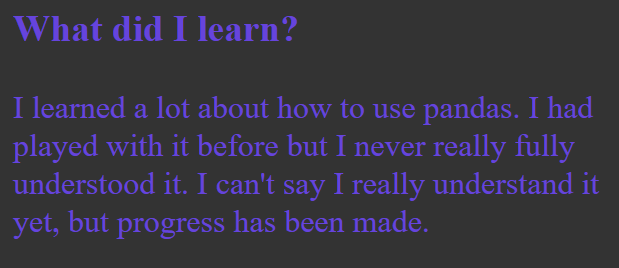
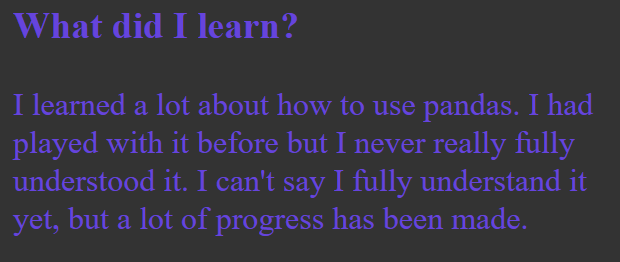
Modify .py file, add screenshots and stylesheet

diff --git a/templates/template.html b/templates/template.html
@@ -1,0 +1,15 @@
+<!DOCTYPE html>
+<html lang="en">
+<head>
+    <meta charset="UTF-8">
+    <title>My Book Results</title>
+    <link rel="stylesheet" href="../static/style.css">
+</head>
+<body>
+
+{% for table in tables %}
+            {{titles[loop.index]}}
+            {{ table|safe }}
+{% endfor %}
+</body>
+</html>

diff --git a/static/style.css b/static/style.css
@@ -1,0 +1,14 @@
+html {
+    background-color: #023047;
+    color: #fb8500;
+}
+
+table, tr, th, td {
+    border: 1px solid #219ebc;
+    border-collapse: collapse;
+}
+
+th, td {
+    text-align: center;
+    max-width: 400px;
+}

diff --git a/web_data_app.py b/web_data_app.py
@@ -81,7 +81,8 @@ def book_data():
         prices.append(float(book.find('p', class_="price_color").text[1:]))
 
     # Create a DataFrame using the two lists
-    book_data = pd.DataFrame(list(zip(titles, prices)), columns=['Titles','Prices'])    
+    book_data = pd.DataFrame(list(zip(titles, prices)), columns=['Titles','Prices'])
+    book_data['Sale Prices'] = round(book_data['Prices'] * 0.75, 2)
     print(book_data)        # Print to the terminal as confirmation - only we can see this
 
     # Format and print the DataFrame using the html template provided in the templates subdirectory
@@ -94,8 +95,8 @@ def learn():
     s += '<html style=" background-color: #333; color: #64d;">'
     s += '<div style="width: 300;"><h3>What did I learn?</h3>'
     s += "<p>I learned a lot about how to use pandas. I had played with it before"
-    s += " but I never really fully understood it. I can't say I really understand"
-    s += " it yet, but progress has been made.</p></div></html>"
+    s += " but I never really fully understood it. I can't say I fully understand"
+    s += " it yet, but a lot of progress has been made.</p></div></html>"
     return s
 
 
